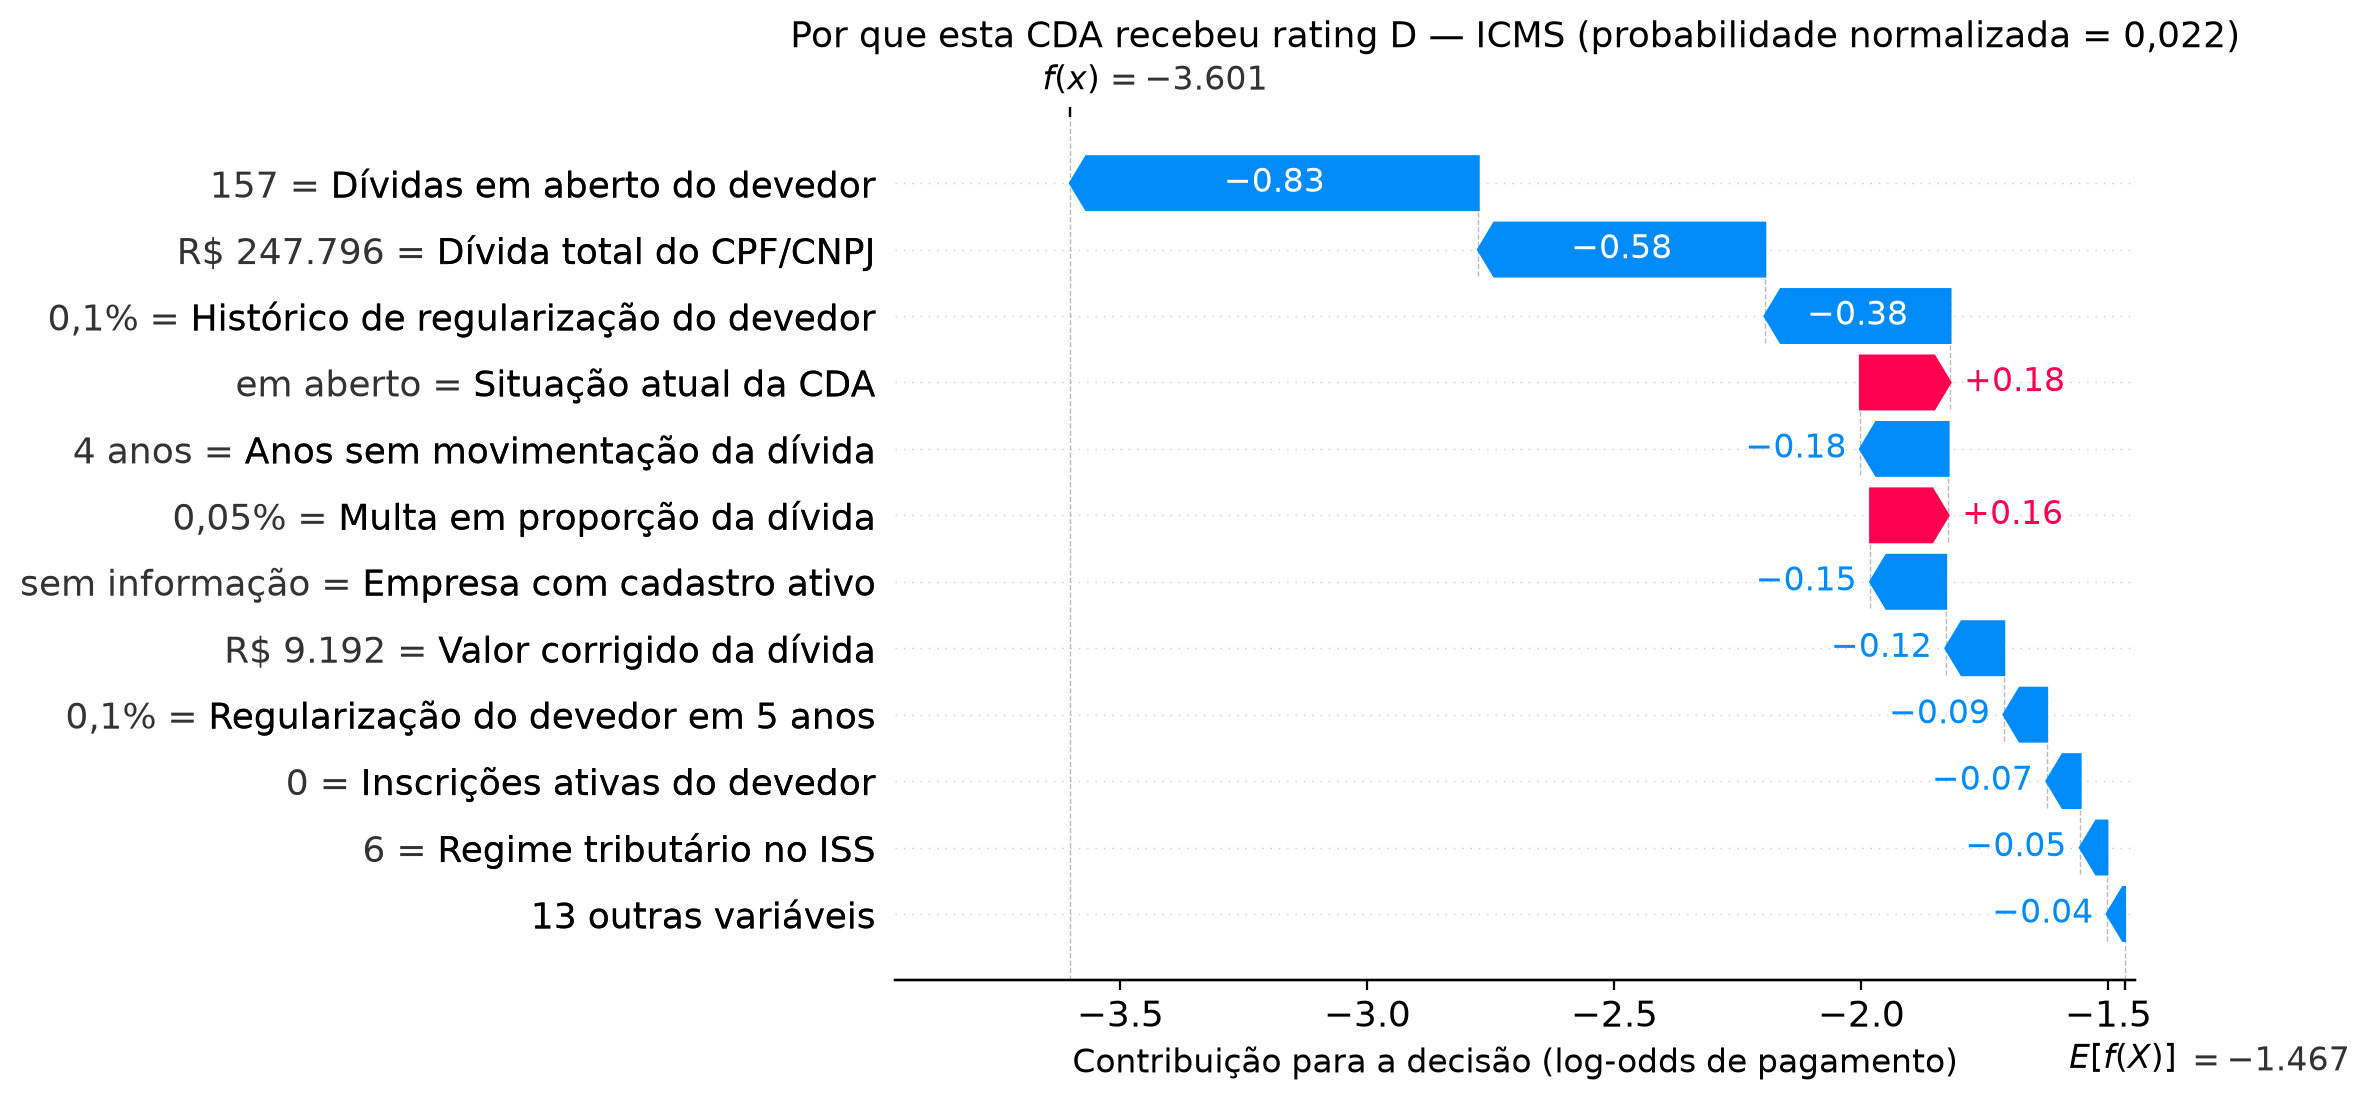
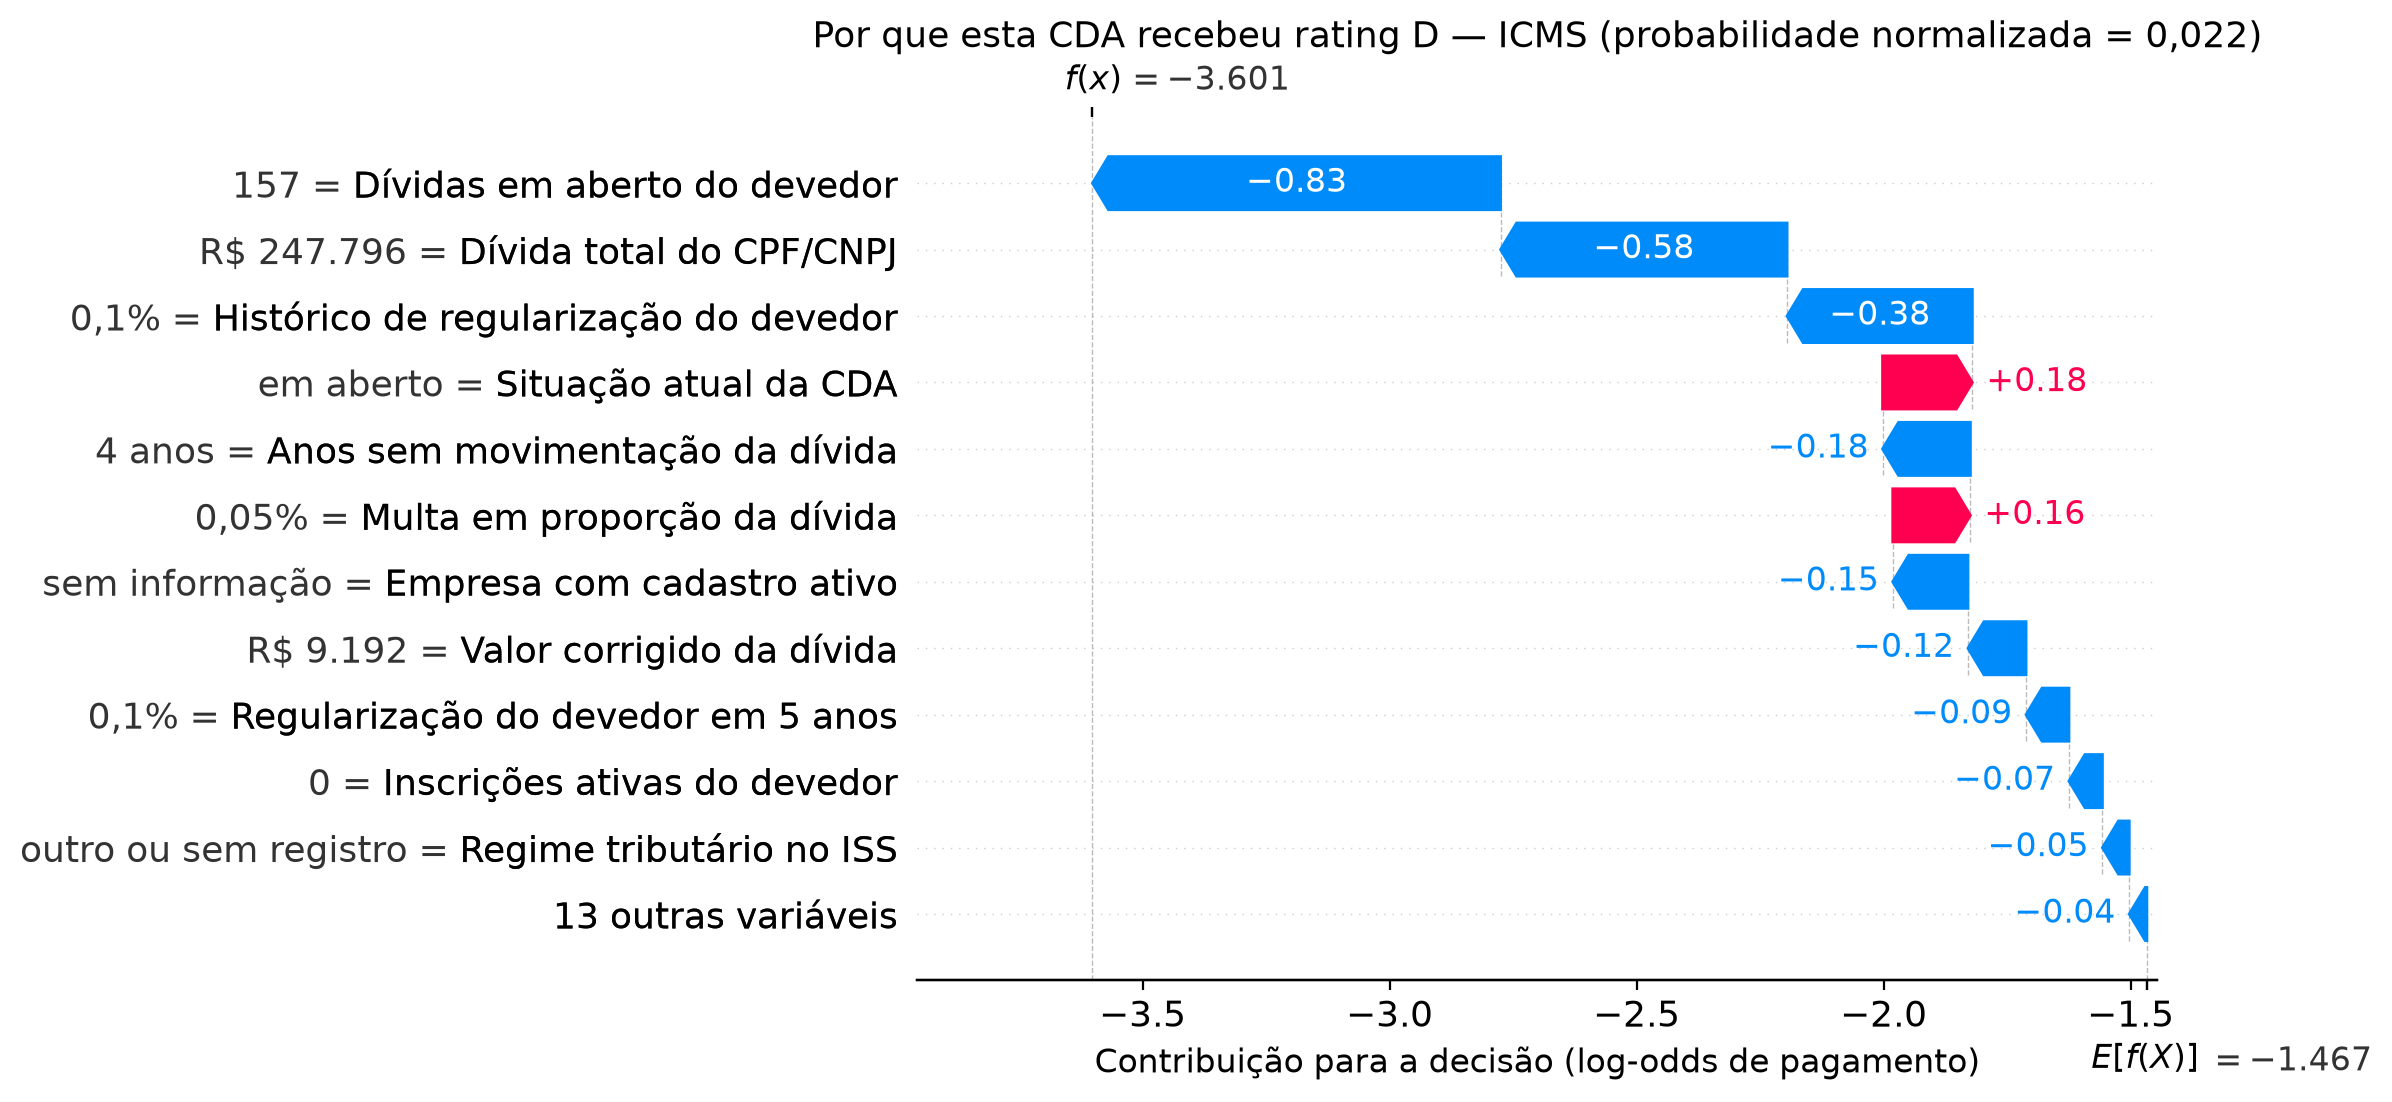
Completa tabela de variáveis com todas as que aparecem nas figuras

diff --git a/editaveis/metodologia.tex b/editaveis/metodologia.tex
@@ -51,11 +51,11 @@ Os gráficos e tabelas do Capítulo \ref{cap:resultados_analise} identificam as 
 
 \begin{table}[H]
     \centering
-    \caption[Variáveis do modelo citadas nos resultados]{Variáveis do modelo de \textit{rating} citadas nas figuras e tabelas dos resultados. A primeira coluna é o nome usado nos gráficos; a segunda, o nome da coluna no modelo de produção; a terceira, o que a variável mede. ``Devedor'' designa o núcleo do contribuinte, identificador que agrupa as CDAs vinculadas a um mesmo CPF ou CNPJ.}
+    \caption[Variáveis do modelo citadas nos resultados]{Variáveis do modelo de \textit{rating} que aparecem nas figuras e tabelas dos resultados. A primeira coluna é o nome usado nos gráficos; a segunda, o nome da coluna no modelo de produção; a terceira, o que a variável mede. ``Devedor'' designa o núcleo do contribuinte, identificador que agrupa as CDAs vinculadas a um mesmo CPF ou CNPJ.}
     \label{tab:glossario_variaveis}
     \footnotesize
     \renewcommand{\arraystretch}{1.2}
-    \begin{tabular}{>{\raggedright\arraybackslash}p{3.9cm} >{\raggedright\arraybackslash}p{3.9cm} >{\raggedright\arraybackslash}p{6.3cm}}
+    \begin{tabular}{>{\raggedright\arraybackslash}p{3.8cm} >{\raggedright\arraybackslash}p{4.3cm} >{\raggedright\arraybackslash}p{6.0cm}}
         \toprule
         \textbf{Nome nos gráficos} & \textbf{Coluna no modelo} & \textbf{O que mede} \\
         \midrule
@@ -69,7 +69,16 @@ Os gráficos e tabelas do Capítulo \ref{cap:resultados_analise} identificam as 
         Situação atual da CDA & \texttt{situacao\_inicial} & Situação da CDA na data de referência (em aberto, parcelada, suspensa etc.). \\
         Multa em proporção da dívida & \texttt{val\_multa} & Valor da multa dividido pelo valor da dívida. \\
         Valor corrigido da dívida & \texttt{val\_div\_corr} & Valor da CDA atualizado monetariamente, em reais. \\
-        Idade da dívida & \texttt{idade\_divida\_meses} & Meses desde a inscrição em dívida ativa. \\
+        Idade da dívida (meses) & \texttt{idade\_divida\_meses} & Meses desde a inscrição em dívida ativa. \\
+        Regime tributário no ICMS & \texttt{regime\_tributario\_icms} & Regime de tributação do contribuinte no cadastro do ICMS, agrupado nas categorias mais frequentes. \\
+        Regime tributário no ISS & \texttt{regime\_tributario\_iss} & O mesmo, no cadastro do ISS. \\
+        Inscrições ativas do devedor & \texttt{qtd\_ativos\_nucleo} & Número de inscrições do devedor ativas no cadastro fiscal. \\
+        Idade da empresa & \texttt{idade\_emp} & Tempo de existência da empresa quando a dívida foi inscrita, em faixas (menos de 2, de 2 a 4 e 4 anos ou mais). \\
+        Tipo de receita & \texttt{cd\_receita} & Código do tributo ou da obrigação que originou a dívida. \\
+        Imóveis do devedor & \texttt{qtd\_imoveis} & Número de imóveis vinculados ao CPF ou CNPJ (limitado a 3). \\
+        Histórico de pagamento do devedor & \texttt{hist\_pgto\_nucleo} & Proporção das dívidas do devedor que foram pagas. \\
+        Mudanças de situação da CDA & \texttt{qtd\_situacoes} & Número de vezes que a situação da CDA mudou desde a inscrição. \\
+        Origem da dívida & \texttt{cd\_origem} & Forma de constituição da dívida, substituída pela taxa histórica de pagamento da categoria. \\
         Pessoa jurídica & \texttt{se\_cnpj} & Se o contribuinte é identificado por CNPJ (usada no experimento do IPTU). \\
         \bottomrule
     \end{tabular}
